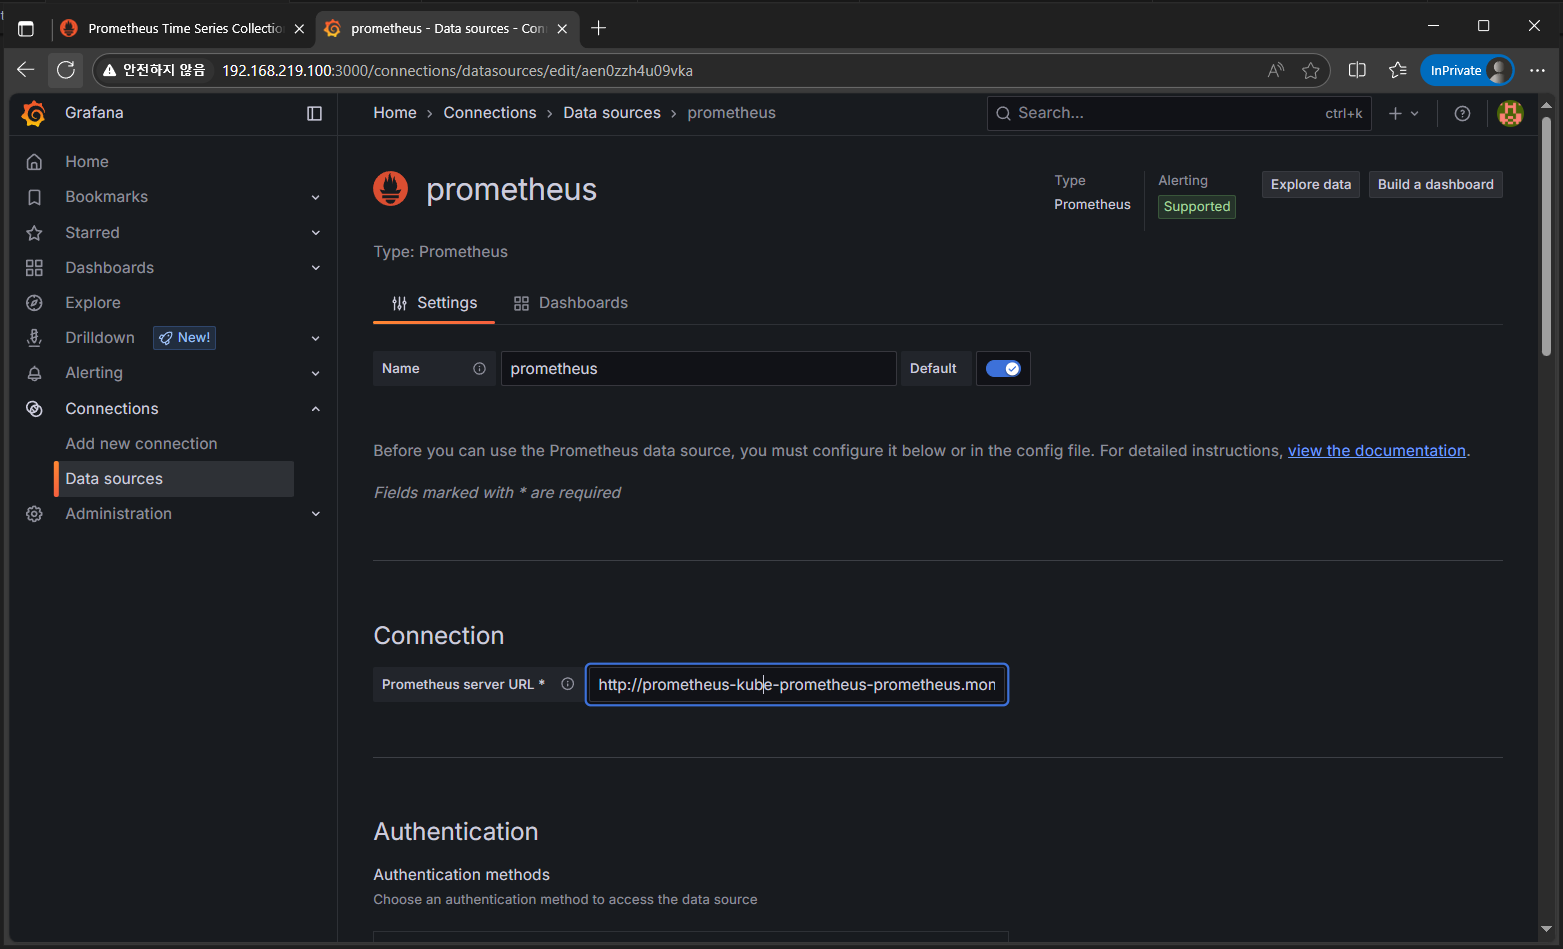
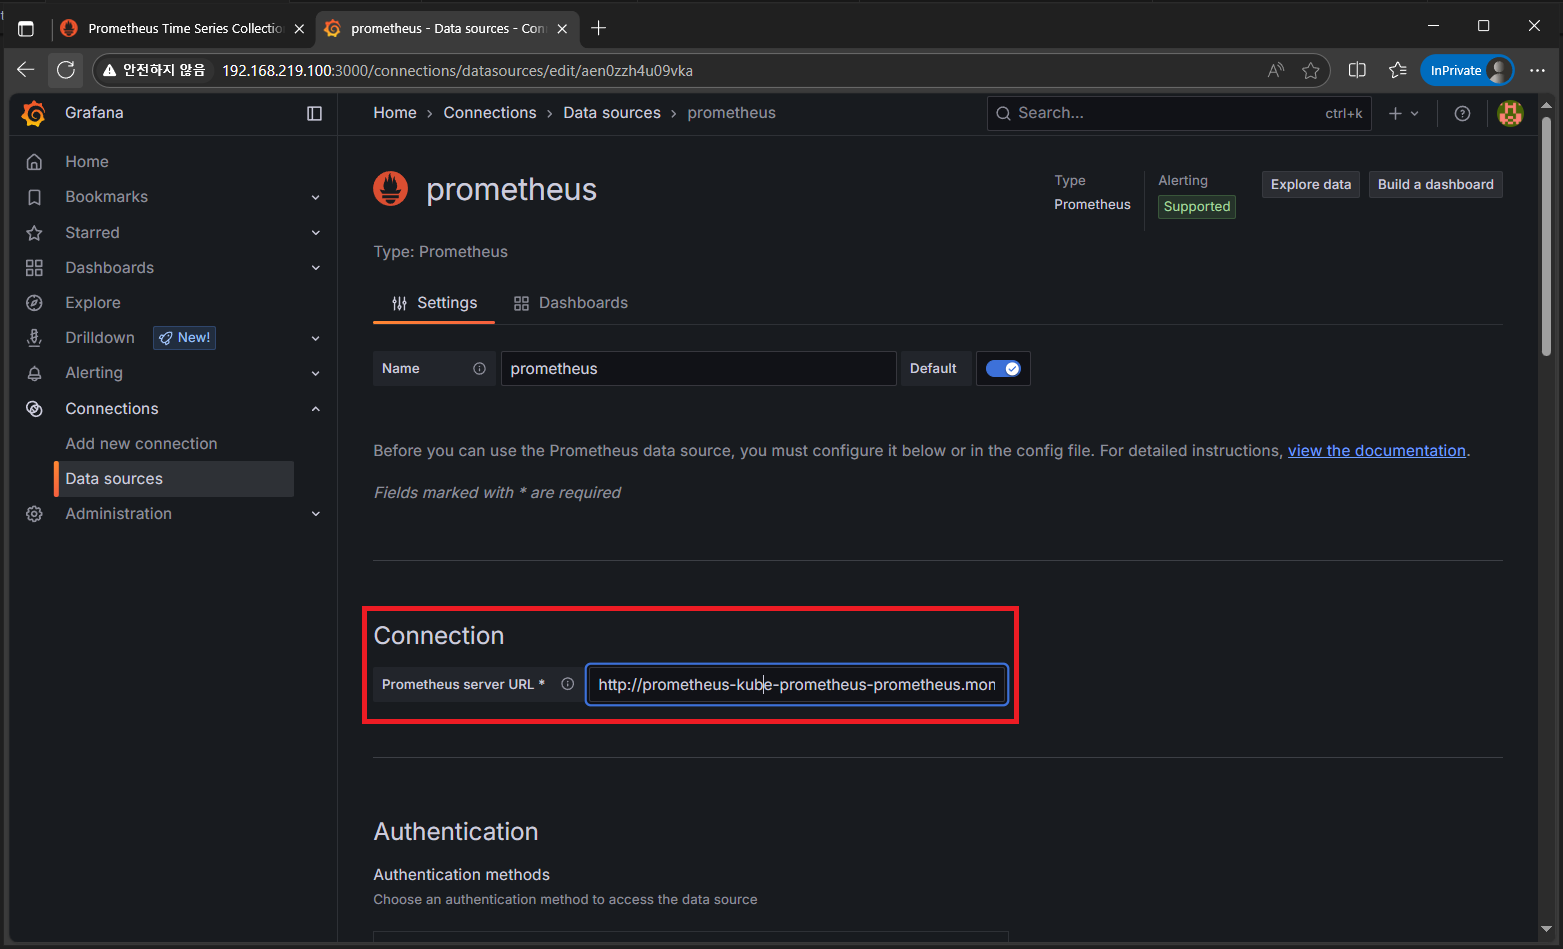
.

Changed region(s): [[0.215, 0.6417, 0.6756, 0.764], [0.2457, 0.6112, 0.6449, 0.6417]]

diff --git a/07. Monitoring/readme.md b/07. Monitoring/readme.md
@@ -166,6 +166,12 @@ PskbWLsRrl
 
 ![Grafana-4](https://github.com/revenge1005/k8s-cluster-setup/blob/main/07.%20Monitoring/grafana-4.PNG)
 
+- Prometheus Server URL
+
+```bash
+http://prometheus-kube-prometheus-prometheus.monitoring.svc.cluster.local
+```
+
 ![Grafana-5](https://github.com/revenge1005/k8s-cluster-setup/blob/main/07.%20Monitoring/grafana-5.PNG)
 
 ![Grafana-6](https://github.com/revenge1005/k8s-cluster-setup/blob/main/07.%20Monitoring/grafana-6.PNG)
